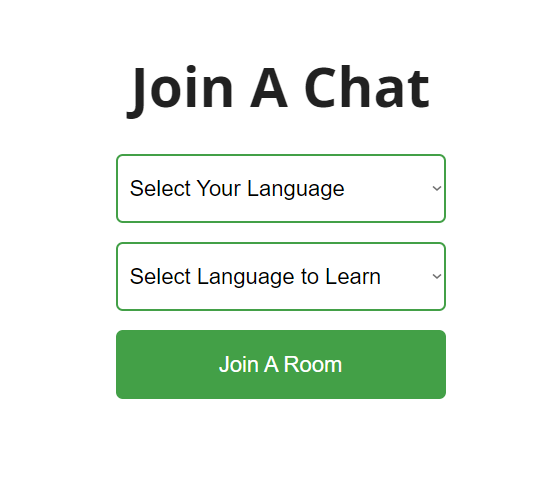
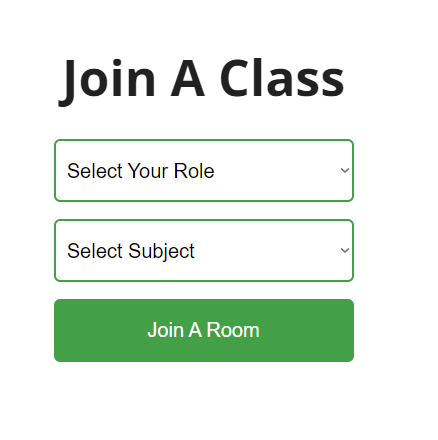
Update README

Changed region(s): [[0.1187, 0.2955, 0.8311, 0.8273], [0.1187, 0.1182, 0.8014, 0.2659], [0.3265, 0.7091, 0.653, 0.7682]]

diff --git a/README.md b/README.md
@@ -7,17 +7,17 @@
 ### Windows Configuration
 To build the docker image, run the following command in the root directory of the project:
 ```
-cd cloud\classroom
+cd psd2\classroom
 apply.bat
 ```
 To build the kubernetes server, run the following command in the root directory of the project:
 ```
-cd cloud\backend
+cd psd2\backend
 apply.bat
 ```
 To build the kubernetes client, run the following command in the root directory of the project:
 ```
-cd cloud\client
+cd psd2\client
 apply.bat
 
 ```
@@ -25,17 +25,17 @@ apply.bat
 ### Mac Configuration
 To build the docker image, run the following command in the root directory of the project:
 ```
-cd cloud/classroom
+cd psd2/classroom
 bash apply.sh
 ```
 To build the kubernetes server, run the following command in the root directory of the project:
 ```
-cd cloud/backend
+cd psd2/backend
 bash apply.sh
 ```
 To build the kubernetes client, run the following command in the root directory of the project:
 ```
-cd cloud\client
+cd psd2\client
 bash apply.sh
 ```
 
@@ -52,7 +52,7 @@ With the kubernetes server and client running, you can access the landing page b
 
 Select your role and subject from the dropdowns and click `Join A Room`
 
-![Languages selected](readme_images/languages_selected.png)
+![Role and Subject selected](readme_images/role_and_subject_selected.png)
 
 You will be redirected to a waiting page where you will wait for another user to join the room.
 
@@ -64,23 +64,32 @@ For the purposes of this demo, you will need to open another browser window and 
 
 Once the second user joins the room, you will be redirected to the classroom page.
 
-![Chatroom](readme_images/chatroom.png)
+![Classroom](readme_images/classroom.png)
 
 If you view the running containers in Docker Desktop, you will see the a container for the classroom would have been created.
 
-![Alt text](readme_images/chatroom_container.png)
+![Alt text](readme_images/classroom_container.png)
+
+#### Whiteboard
+
+The whiteboard is a shared space where users can draw and write on the board. The whiteboard is accessible by clicking the `Show Whiteboard` button on the classroom page.
+
+![Whiteboard disabled](readme_images/whiteboard_disabled.png)
+![Whiteboard tutor](readme_images/whiteboard_tutor.png)
+![Whiteboard student](readme_images/whiteboard_student.png)
+
 
 #### Classroom scaling
 
 If you repeat the steps above to make another Classroom, you will notice a new container with a different port is created for the new classroom.
 
-![Alt text](readme_images/new_chatroom_container.png)
+![Alt text](readme_images/new_classroom_container.png)
 
 #### Stress testing HPA
 To stress test the HPA functionality of the client pod, run the following commands:
 ```
 pip install locust
-cd cloud/client
+cd psd2/client
 locust
 ```
 Then go to `localhost:8089` and enter the following values:
@@ -98,7 +107,7 @@ kubectl get hpa
 To stress test the classroom creation functionality of the backend pod, run the following commands:
 ```
 pip install locust
-cd cloud/backend
+cd psd2/backend
 locust
 ```
 Then go to `localhost:8089` and enter the following values:
